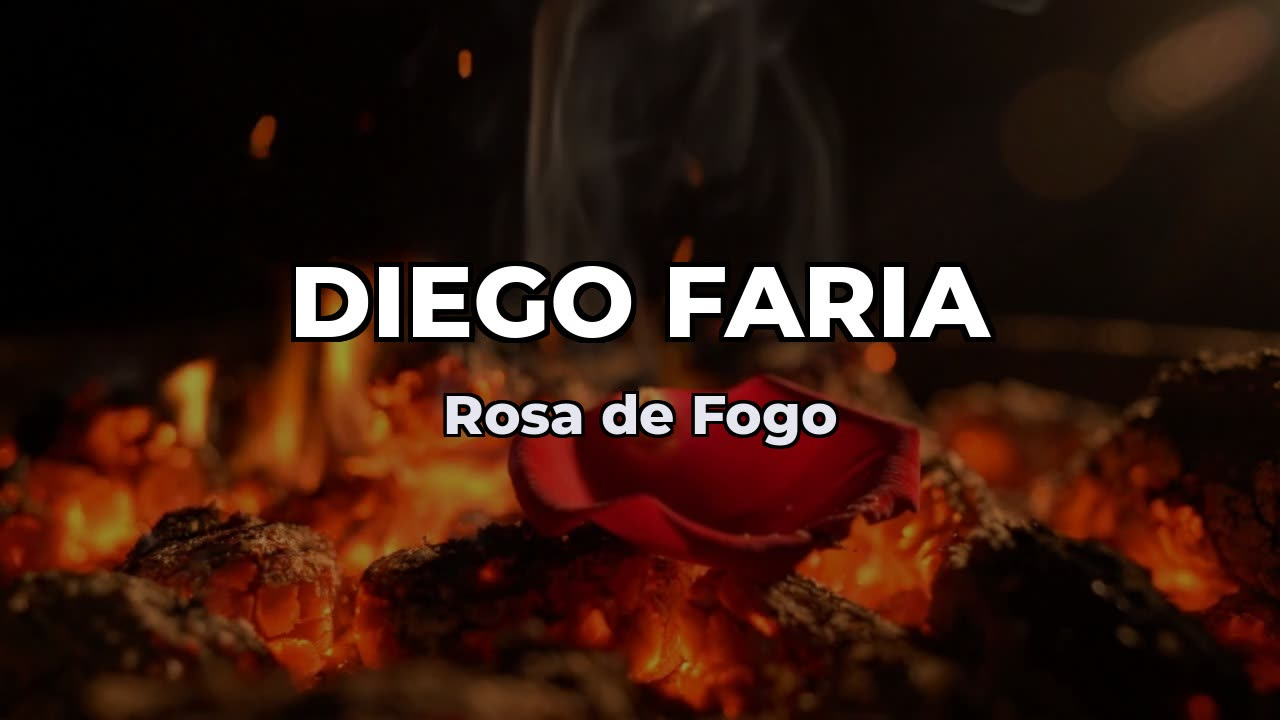
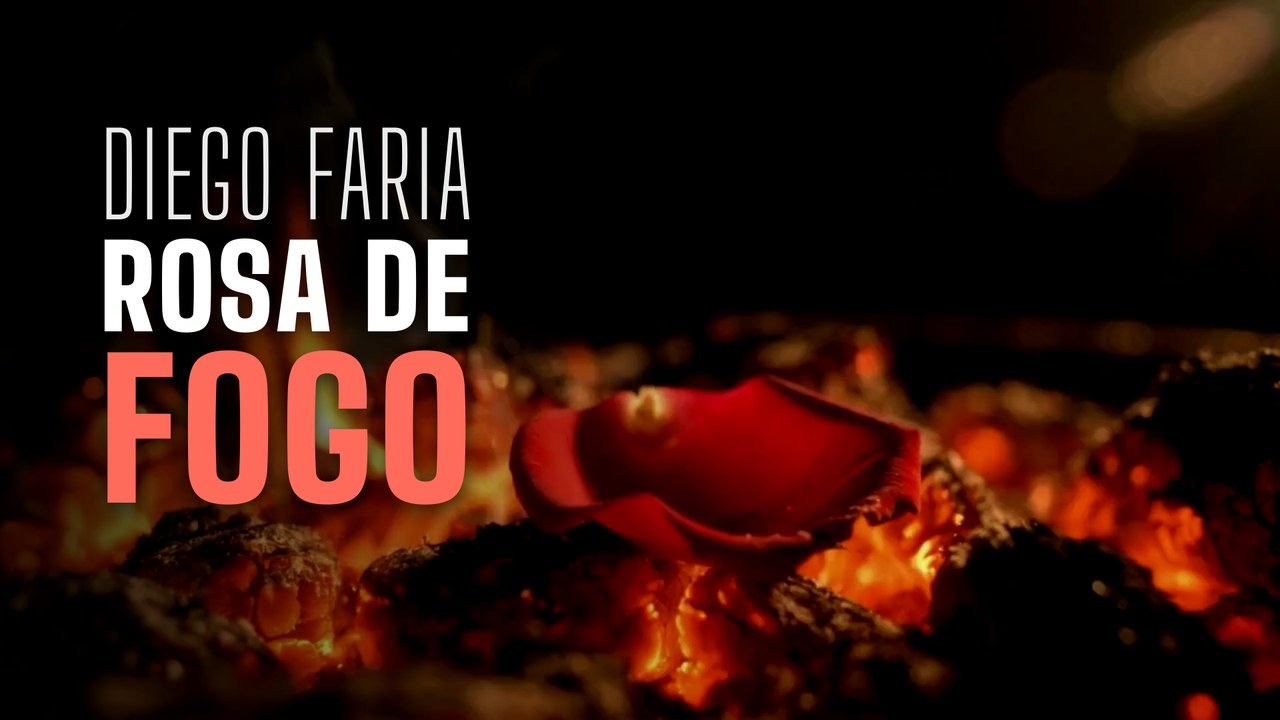
feat(muestra): thumbnails con la tipografía de cada look y escalera de volumen
Las thumbnails pasan de Montserrat plana a la tipografía de su look (Arco en
círculo, Bloque, Romântico manuscrita, Cine serif). La oferta muestra los
cuatro escalones aprobados (25/22/20/18) con total mensual y ahorro.

diff --git a/lyricgen/frontend/public/muestra/muestra.css b/lyricgen/frontend/public/muestra/muestra.css
@@ -88,20 +88,25 @@ h1 { max-width: 26ch; font-family: var(--display); font-size: clamp(2rem, 3.6vw,
 
 /* Offer */
 .offer { padding: clamp(72px, 10vw, 120px) 0; background: var(--ink-2); border-block: 1px solid var(--line); }
-.offer-grid { display: grid; grid-template-columns: minmax(0, 1.05fr) minmax(0, 1fr); gap: clamp(32px, 6vw, 80px); align-items: start; }
+.offer-grid { display: grid; grid-template-columns: minmax(0, 1fr) minmax(0, 1fr); gap: clamp(28px, 5vw, 72px); align-items: end; }
 .kicker { margin-bottom: 20px; color: var(--muted); font-size: 13px; font-weight: 650; letter-spacing: .12em; text-transform: uppercase; }
 .offer h2, .cta h2 { font-family: var(--display); font-size: clamp(2rem, 4.2vw, 3.4rem); line-height: 1.03; letter-spacing: -.035em; text-wrap: balance; }
 .soft { color: var(--dim); }
-.included { display: grid; gap: 14px; margin-top: 30px; }
+.included { display: grid; gap: 12px; }
 .included li { position: relative; padding-left: 28px; color: var(--muted); }
 .included li::before { content: ""; position: absolute; left: 0; top: .62em; width: 12px; height: 12px; border-radius: 50%; background: var(--gradient-brand); }
 .included strong { color: var(--text); font-weight: 650; }
-.cards { display: grid; gap: 14px; }
-.card { padding: 24px 26px; border: 1px solid var(--line); border-radius: var(--radius); background: var(--ink-3); color: var(--muted); font-size: 15.5px; }
-.card-label { margin-bottom: 8px; color: var(--violet-soft); font-size: 12.5px; font-weight: 700; letter-spacing: .12em; text-transform: uppercase; }
-.price { margin-bottom: 8px; color: var(--text); font: 800 clamp(1.6rem, 2.6vw, 2.1rem)/1.1 var(--display); letter-spacing: -.02em; }
-.price span { color: var(--dim); font: 500 15px/1 var(--body); letter-spacing: 0; }
-.accent-card { border-color: rgba(117, 87, 255, .45); background: linear-gradient(135deg, rgba(117, 87, 255, .16), rgba(32, 212, 232, .06)); color: var(--text); }
+.ladder { display: grid; grid-template-columns: repeat(4, minmax(0, 1fr)); gap: 12px; margin-top: clamp(36px, 5vw, 56px); }
+.tier { padding: 24px 22px; border: 1px solid var(--line); border-radius: var(--radius); background: var(--ink-3); color: var(--muted); font-size: 15px; }
+.tier-top { border-color: rgba(117, 87, 255, .55); background: linear-gradient(160deg, rgba(117, 87, 255, .2), rgba(32, 212, 232, .06)); }
+.card-label { margin-bottom: 10px; color: var(--violet-soft); font-size: 12.5px; font-weight: 700; letter-spacing: .12em; text-transform: uppercase; }
+.price { color: var(--text); font: 800 clamp(1.7rem, 2.6vw, 2.2rem)/1.1 var(--display); letter-spacing: -.02em; }
+.price span { color: var(--dim); font: 500 14.5px/1 var(--body); letter-spacing: 0; }
+.qty { margin-top: 12px; color: var(--text); font-weight: 600; }
+.save { margin-top: 4px; color: var(--cyan); font-size: 14px; font-weight: 600; }
+.note-sm { margin-top: 4px; font-size: 14px; }
+.partner { margin-top: 12px; padding: 22px 24px; border: 1px solid rgba(117, 87, 255, .45); border-radius: var(--radius); background: linear-gradient(135deg, rgba(117, 87, 255, .16), rgba(32, 212, 232, .06)); color: var(--text); }
+.partner .card-label { margin-bottom: 6px; }
 
 /* CTA */
 .cta { padding: clamp(80px, 11vw, 136px) 0; text-align: center; }
@@ -129,6 +134,7 @@ h1 { max-width: 26ch; font-family: var(--display); font-size: clamp(2rem, 3.6vw,
   .for { display: none; }
   .header-cta { margin-left: auto; }
   .offer-grid { grid-template-columns: 1fr; }
+  .ladder { grid-template-columns: repeat(2, minmax(0, 1fr)); }
   .now { flex-direction: column; gap: 12px; }
 }
 

diff --git a/lyricgen/frontend/public/muestra/the-home-music-rf7k2q/index.html b/lyricgen/frontend/public/muestra/the-home-music-rf7k2q/index.html
@@ -106,32 +106,50 @@
 </section>
 
 <section class="offer">
-  <div class="shell offer-grid">
-    <div>
-      <p class="kicker">Como trabalhamos</p>
-      <h2>Vocês mandam o áudio. <span class="soft">A gente entrega tudo pronto para subir.</span></h2>
+  <div class="shell">
+    <div class="offer-grid">
+      <div>
+        <p class="kicker">Como trabalhamos</p>
+        <h2>Vocês mandam o áudio. <span class="soft">A gente entrega tudo pronto para subir.</span></h2>
+      </div>
       <ul class="included">
         <li><strong>Lyric video 16:9 em 1080p</strong>, com a letra sincronizada palavra por palavra.</li>
         <li><strong>Versão vertical</strong> para Reels, TikTok e Shorts.</li>
-        <li><strong>Thumbnail</strong> para o YouTube.</li>
+        <li><strong>Thumbnail</strong> para o YouTube, na tipografia do vídeo.</li>
         <li><strong>Letra revisada por pessoas</strong>, com uma rodada de ajustes incluída.</li>
       </ul>
     </div>
-    <div class="cards">
-      <div class="card">
+
+    <div class="ladder" role="list" aria-label="Preços por volume">
+      <div class="tier" role="listitem">
         <p class="card-label">Piloto</p>
         <p class="price">US$25 <span>por música</span></p>
-        <p>5 músicas em 5 dias. Vocês só pagam as que publicarem, 30 dias depois da entrega.</p>
+        <p class="qty">5 músicas em 5 dias</p>
+        <p class="note-sm">Só pagam as que publicarem, 30 dias depois da entrega.</p>
       </div>
-      <div class="card">
-        <p class="card-label">Pacotes mensais</p>
-        <p class="price">desde US$18 <span>por música</span></p>
-        <p>20, 50 ou 100 músicas por mês, a US$22, 20 e 18 por música.</p>
+      <div class="tier" role="listitem">
+        <p class="card-label">20 por mês</p>
+        <p class="price">US$22 <span>por música</span></p>
+        <p class="qty">US$440 por mês</p>
+        <p class="save">12% menos que o piloto</p>
       </div>
-      <div class="card accent-card">
-        <p class="card-label">Para distribuidoras</p>
-        <p>Vocês oferecem isso aos artistas que distribuem, com a sua marca ou por indicação, e a gente produz.</p>
+      <div class="tier" role="listitem">
+        <p class="card-label">50 por mês</p>
+        <p class="price">US$20 <span>por música</span></p>
+        <p class="qty">US$1.000 por mês</p>
+        <p class="save">20% menos que o piloto</p>
       </div>
+      <div class="tier tier-top" role="listitem">
+        <p class="card-label">100 por mês</p>
+        <p class="price">US$18 <span>por música</span></p>
+        <p class="qty">US$1.800 por mês</p>
+        <p class="save">28% menos que o piloto</p>
+      </div>
+    </div>
+
+    <div class="partner">
+      <p class="card-label">Para distribuidoras</p>
+      <p>Vocês oferecem isso aos artistas que distribuem, com a sua marca ou por indicação, e a gente produz.</p>
     </div>
   </div>
 </section>
